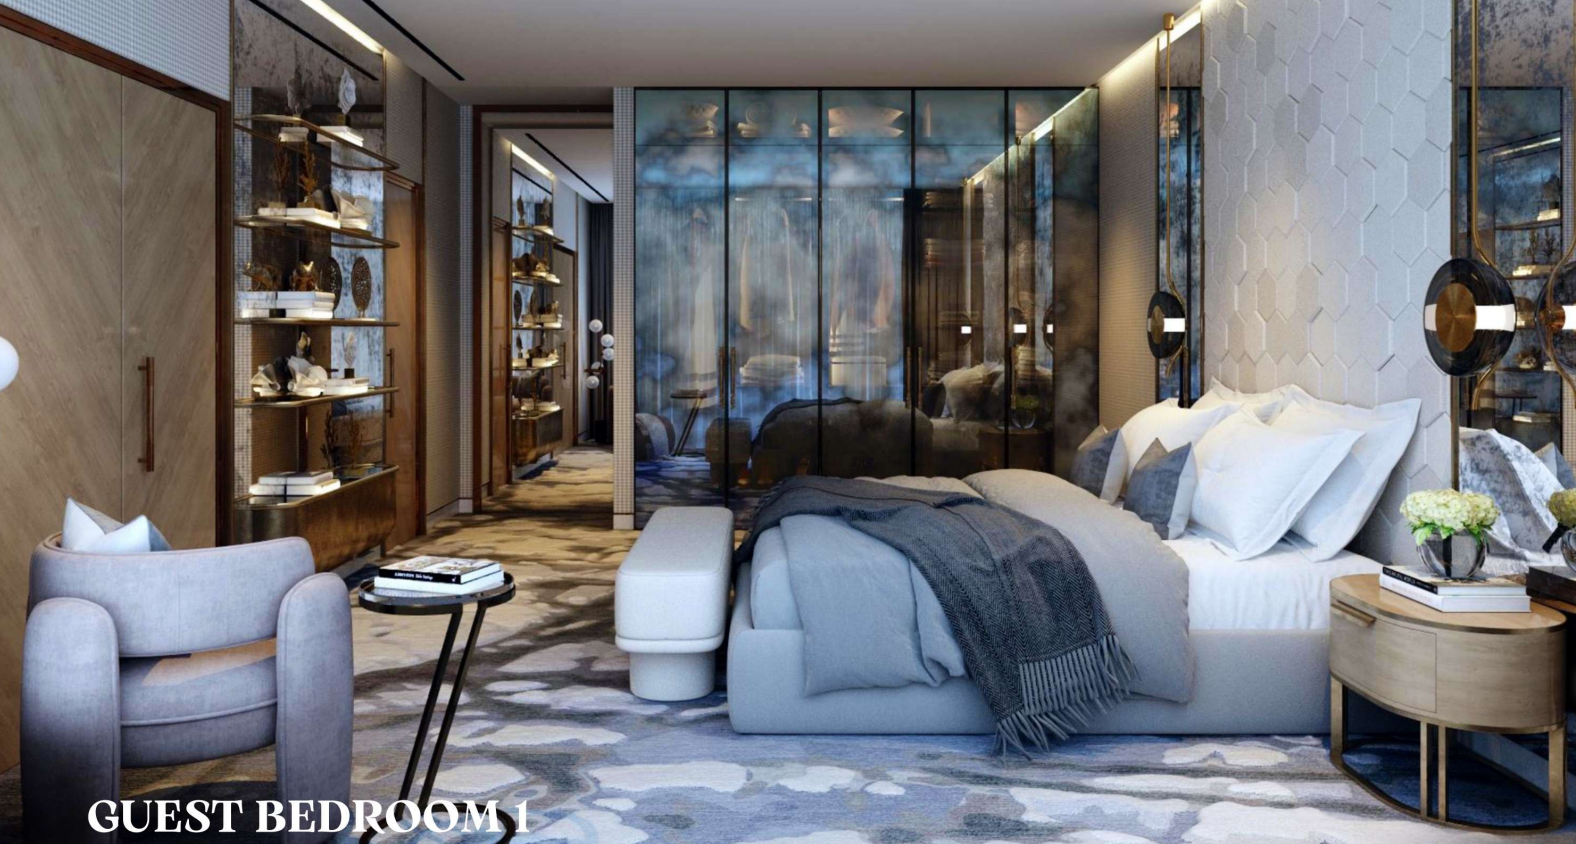
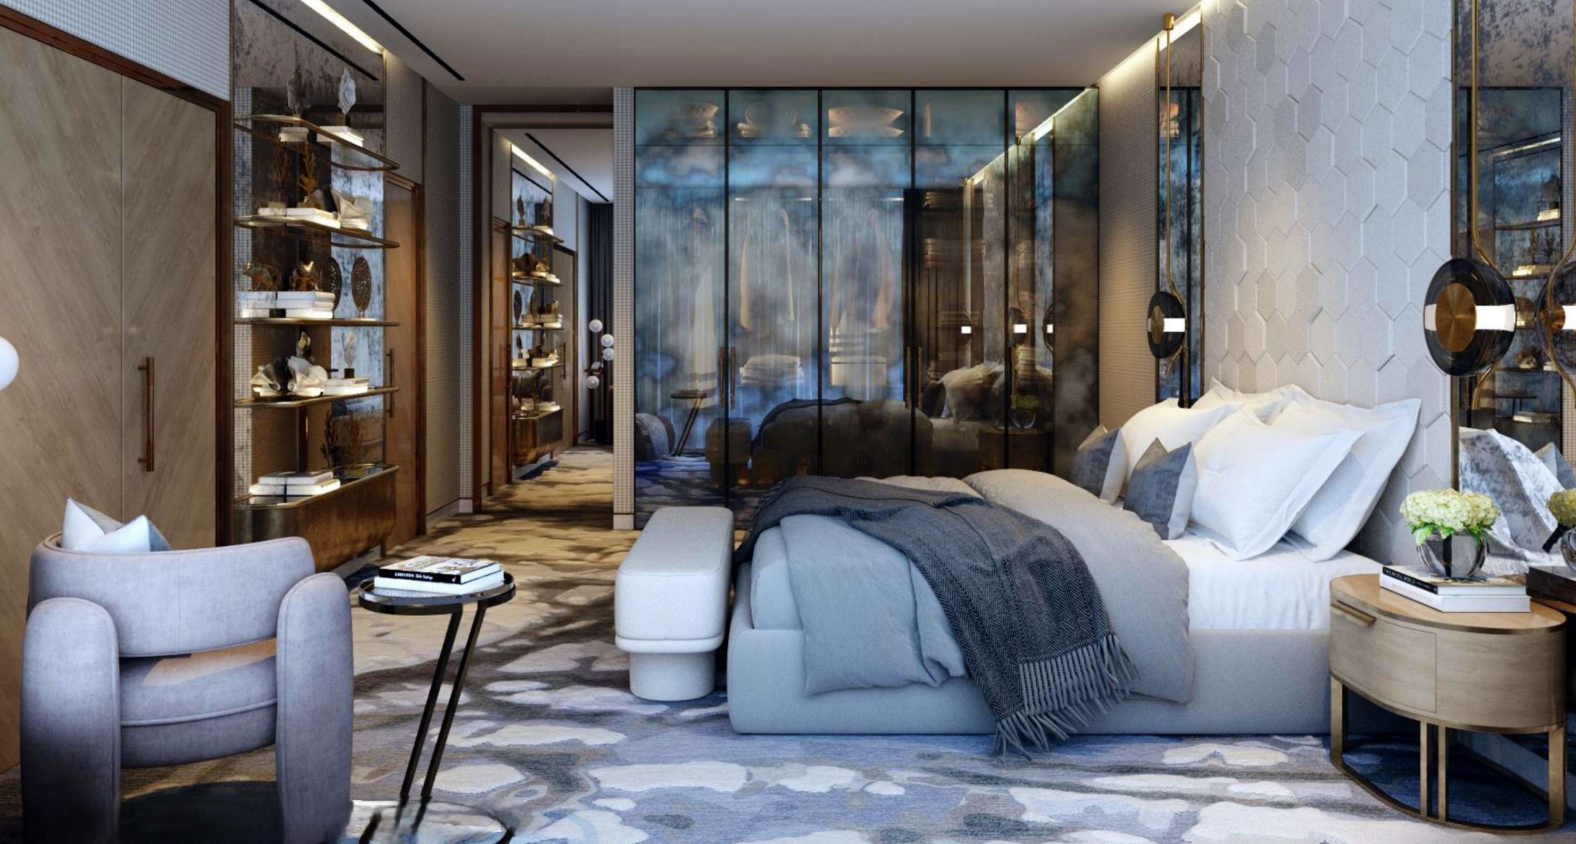
Update interior design image and redesign cards with hover effects

Changed region(s): [[0.0311, 0.9242, 0.342, 1.0]]

diff --git a/src/pages/services/VenturisInteriors.jsx b/src/pages/services/VenturisInteriors.jsx
@@ -417,24 +417,22 @@ export default function VenturisInteriors() {
             {services.map((s, i) => (
               <div
                 key={s.title}
-                className="group bg-white rounded-2xl overflow-hidden shadow-md shadow-gray-200/50 border border-gray-100 hover:shadow-xl hover:shadow-brand-teal/10 hover:-translate-y-1.5 transition-all duration-500"
+                className="group relative bg-white rounded-2xl overflow-hidden shadow-md shadow-gray-200/50 border border-gray-100 hover:shadow-xl hover:shadow-brand-teal/15 transition-all duration-500"
               >
                 <div className="relative h-56 sm:h-64 overflow-hidden">
                   <img
                     src={s.image}
                     alt={s.title}
-                    className="w-full h-full object-cover transition-all duration-700 ease-out group-hover:scale-105"
+                    className="w-full h-full object-cover transition-all duration-700 ease-out group-hover:scale-110 group-hover:rotate-[2deg]"
                   />
-                  <div className="absolute inset-0 bg-gradient-to-t from-brand-dark/40 via-brand-dark/10 to-transparent" />
-                  <div className="absolute bottom-0 left-0 right-0 p-6">
-                    <div className="flex items-center gap-3">
-                      <span className="w-6 h-0.5 bg-brand-teal" />
-                      <h3 className="text-lg font-bold text-white">{s.title}</h3>
-                    </div>
+                  <div className="absolute inset-0 bg-gradient-to-t from-brand-dark/50 to-transparent opacity-60 group-hover:opacity-80 transition-opacity duration-500" />
+                  <div className="absolute bottom-0 left-0 right-0 p-6 translate-y-2 group-hover:translate-y-0 transition-transform duration-500">
+                    <h3 className="text-lg font-bold text-white">{s.title}</h3>
                   </div>
                 </div>
-                <div className="p-6">
-                  <p className="text-gray-500 text-sm leading-relaxed">{s.desc}</p>
+                <div className="p-6 relative">
+                  <div className="absolute top-0 left-6 right-6 h-px bg-gradient-to-r from-brand-teal/40 via-transparent to-brand-navy/40 opacity-0 group-hover:opacity-100 transition-opacity duration-500" />
+                  <p className="text-gray-500 text-sm leading-relaxed pt-2">{s.desc}</p>
                 </div>
               </div>
             ))}